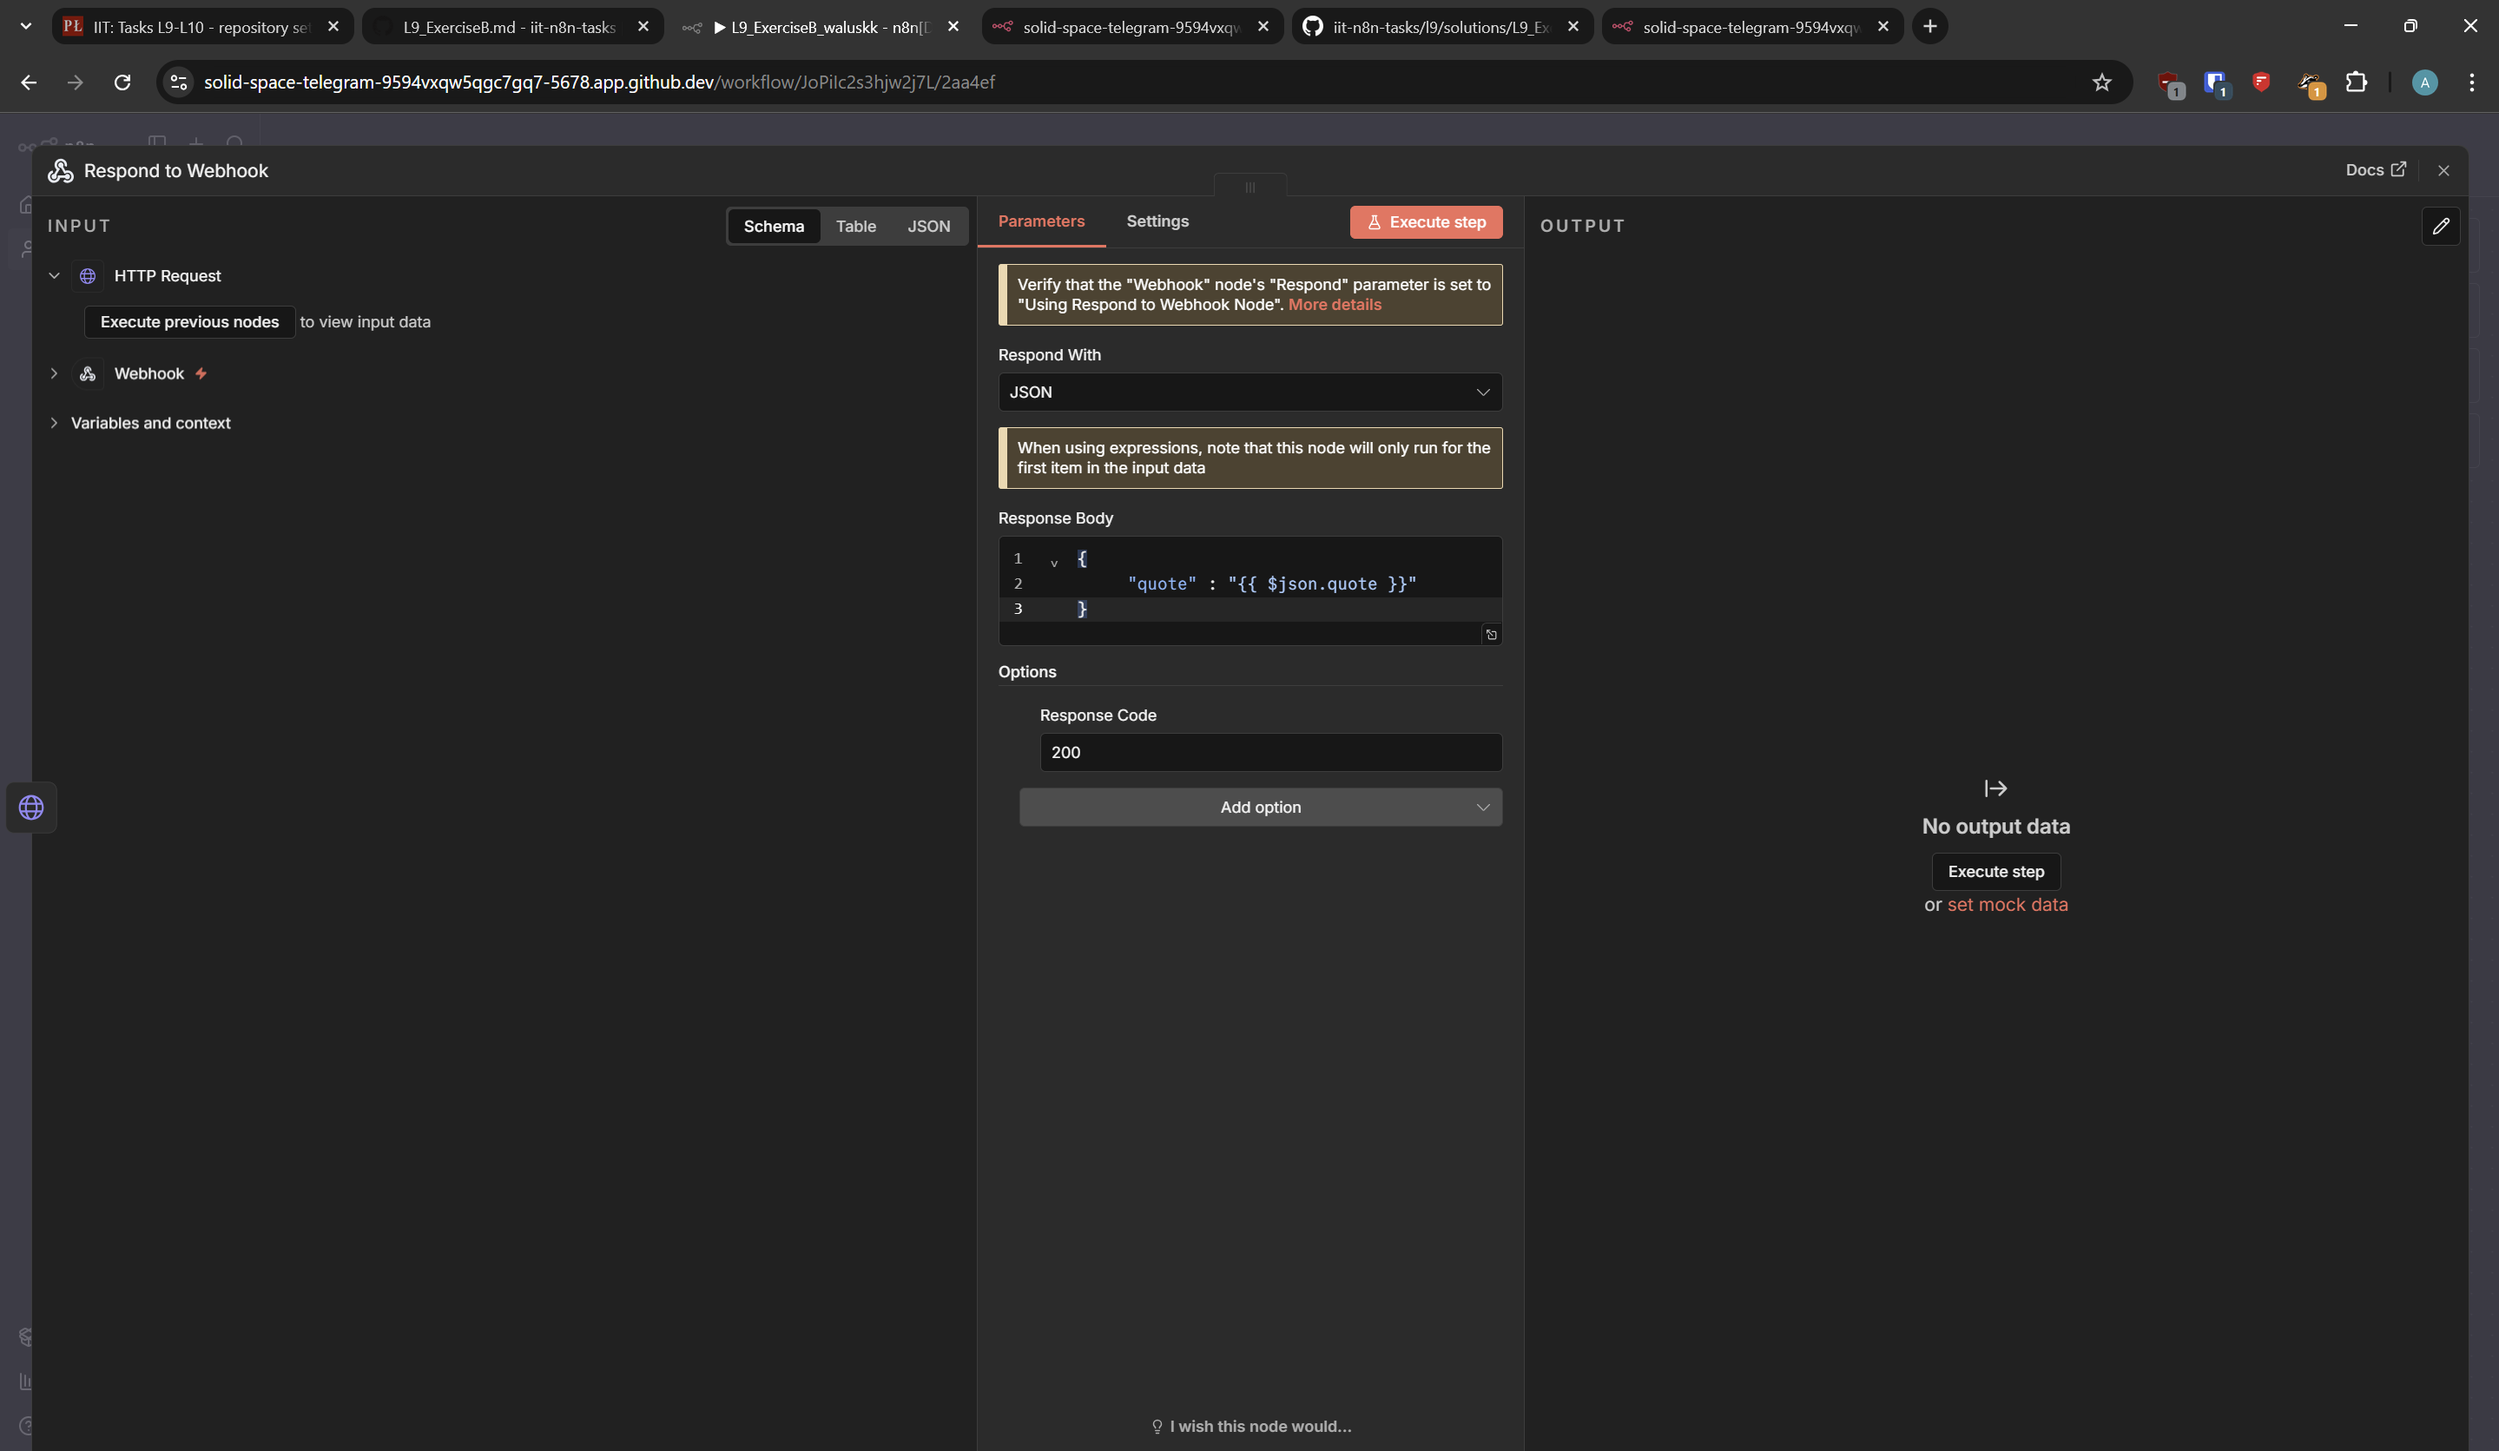
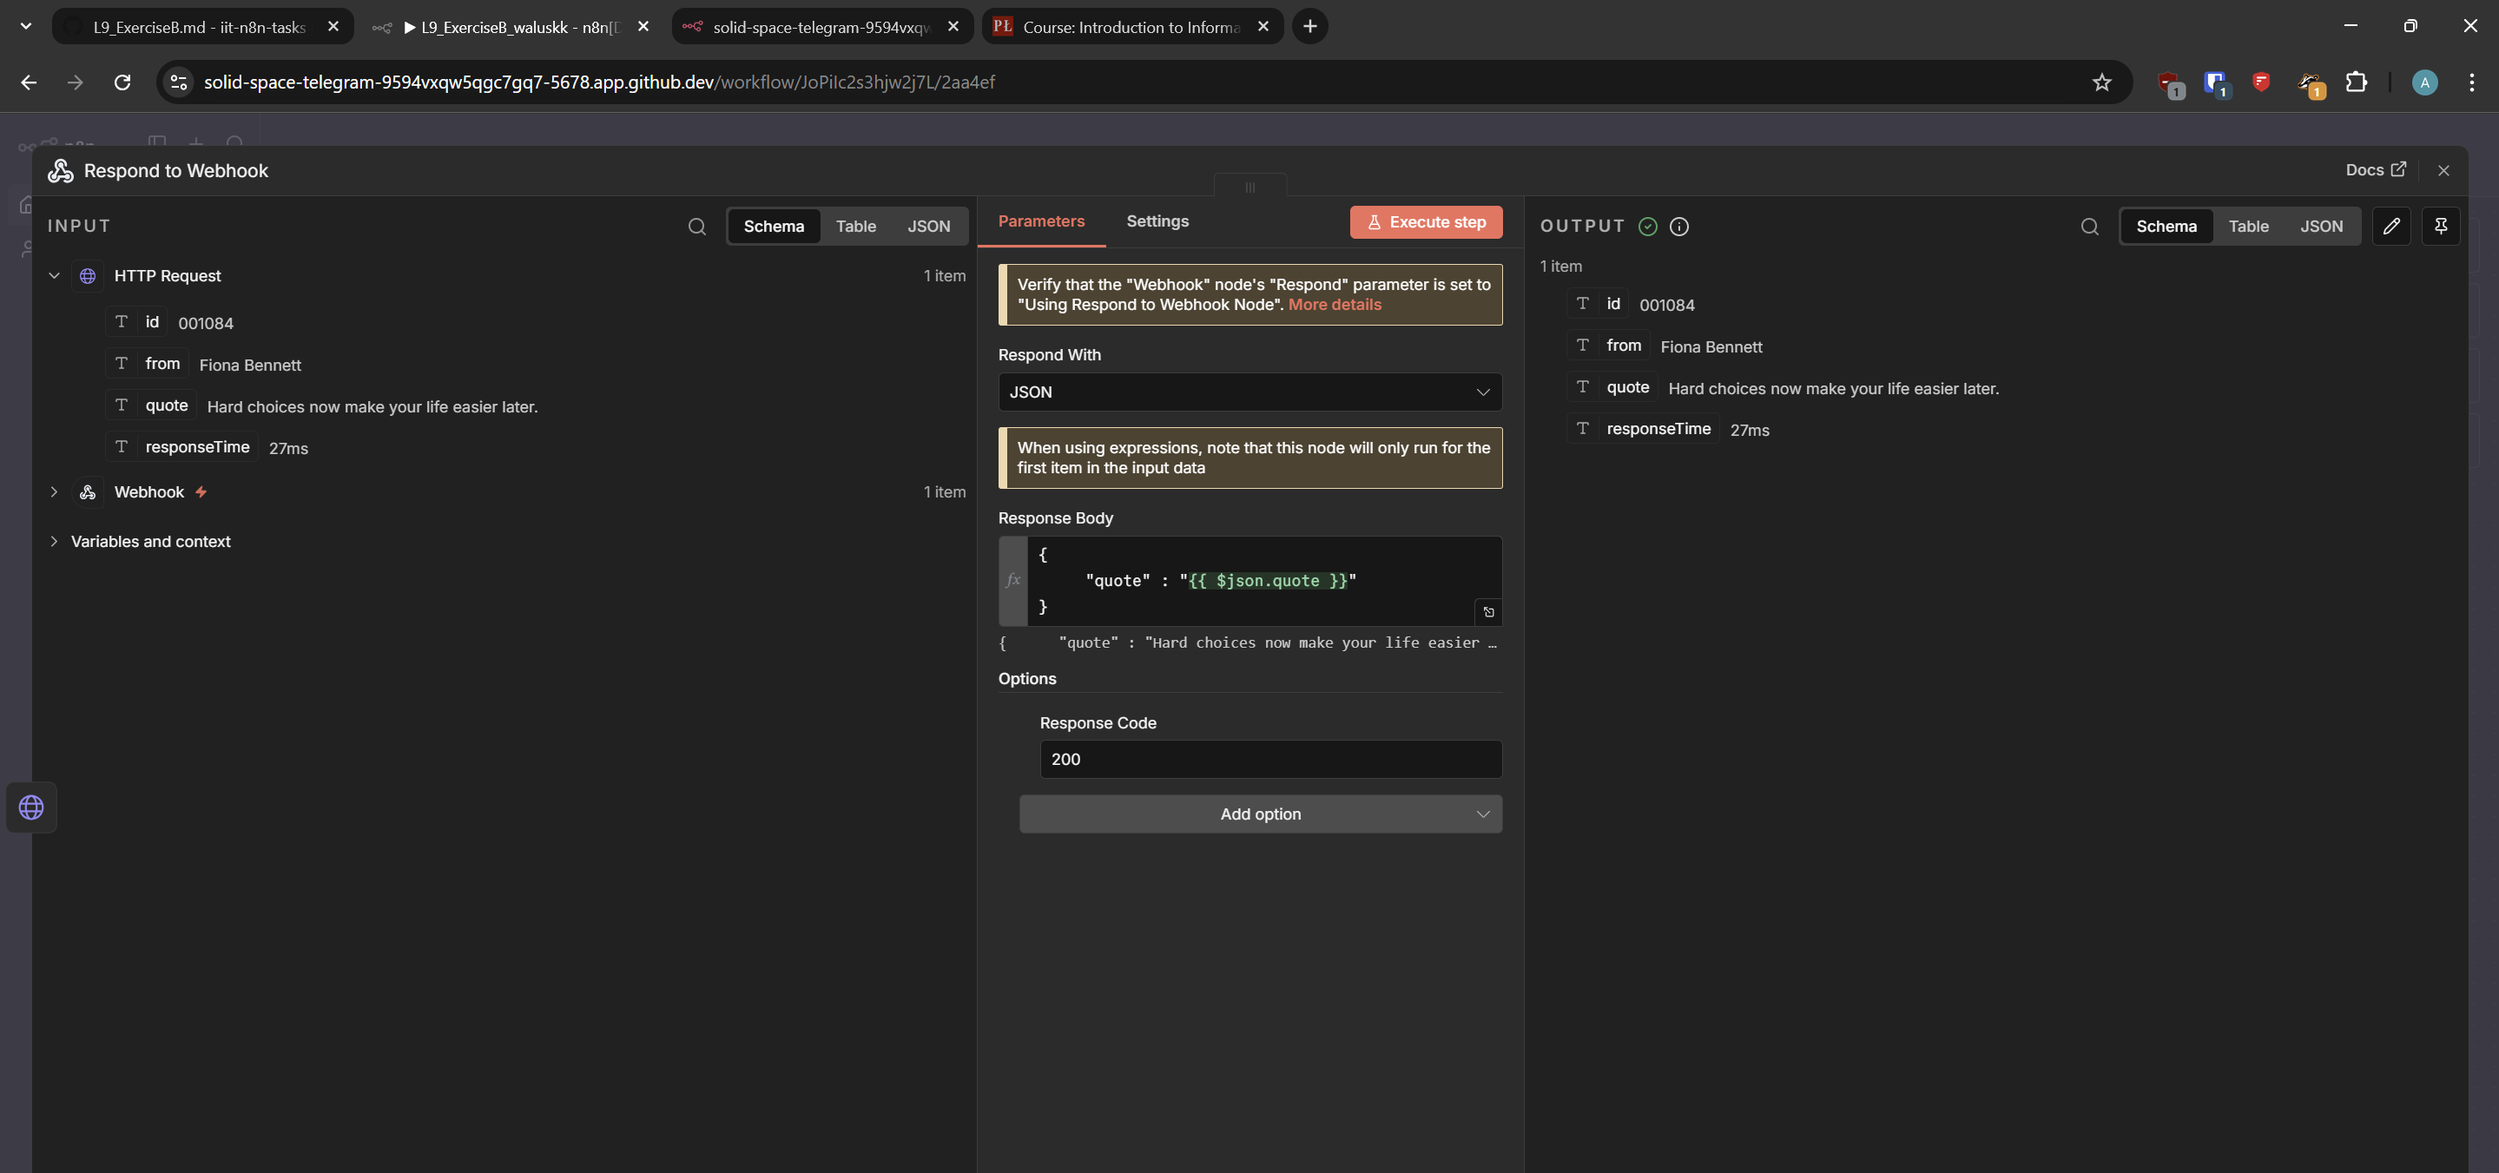
L9: exercise B fix API

diff --git a/l9/solutions/L9_ExerciseB/L9_ExerciseB.md b/l9/solutions/L9_ExerciseB/L9_ExerciseB.md
@@ -1,4 +1,4 @@
-## L9 Exercise A: Solution
+## L9 Exercise B: Solution
 
 **1. Workflow creation**
 
@@ -10,13 +10,13 @@ I created a new workflow in n8n and named it according to the required naming
 
 I created a **Webhook node** to act as the trigger.
 
-**Configuration:** It is set to listen for a call on the webhook associated with my Codespace link
+**Configuration:** It is set to listen for a call on the test webhook associated with my Codespace link
 
 **3. HTTP API Request**
 
 Next, I created a **HTTP Request node**.
 
-The node calls an external API (that does not work as of 16.12.2025) and as I understand should get a response in JSON with a quote.
+The node calls an external API and gets a response in JSON with a quote.
 
 ![HTTP Request node configuration](step2.png)
 
@@ -31,4 +31,3 @@ This node takes the JSON data returned by the API and sends it back as the HTTP 
 
 ![Response proof](step4.png)
 
-**API DOES NOT WORK AS OF 16.12.2025, BUT I AM FOLLOWING THE EXERCISE STEPS**
